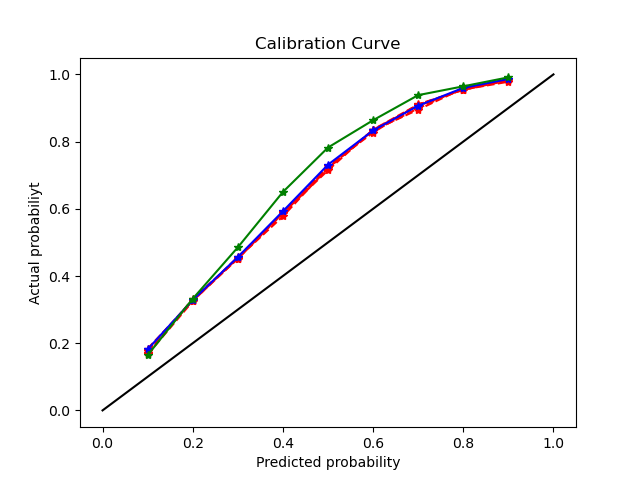
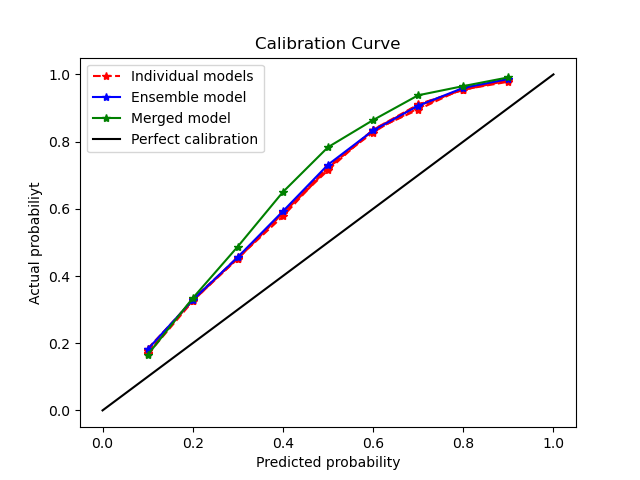
Merge many re-run for report

diff --git a/exp_merge_many.py b/exp_merge_many.py
@@ -71,11 +71,11 @@ if __name__ == "__main__":
     
     train_loader, test_loader, _ = cifar10_loader(batch_size=128)
     ensemble_model = Ensemble(*models)
-    for model in models:
+    for ix, model in enumerate(models):
         x, y = create_calibration_curve(model=model, dataloader=train_loader)
-        plt.plot(x, y, color='r',linestyle="--",marker="*", label="Model")
+        plt.plot(x, y, color='r',linestyle="--",marker="*", label="Individual models" if ix==0 else "")
     x, y = create_calibration_curve(model=ensemble_model, dataloader=train_loader)
-    plt.plot(x, y, color='b', marker="*", label="Ensemble")
+    plt.plot(x, y, color='b', marker="*", label="Ensemble model")
     def _generate_models(model1: torch.nn.Module, model2: torch.nn.Module) -> tuple:
         """
         Internal function to ensure temporary tensors gets erased
@@ -138,14 +138,36 @@ if __name__ == "__main__":
     x, y = create_calibration_curve(model=merged_model_final, dataloader=train_loader)
     
     plt.plot(x, y, color='g',marker="*", label="Merged model")          
-    plt.plot([0, 1], [0, 1], color='black', label="Perfect")
+    plt.plot([0, 1], [0, 1], color='black', label="Perfect calibration")
     plt.xlabel('Predicted probability')
     plt.ylabel('Actual probabiliyt')
     plt.title('Calibration Curve')
+    plt.legend()
     plt.savefig("calibration_plot")
     
-    # for i in range(5):
-    #     for j in range(i+1,5):
-    #         print(f"model {i+1}** & model {j+1}**",_generate_models(__mix_models[i], __mix_models[j]))
+    merged_model_corr = 0.0
+    individual_model_corr = [0.0 for _ in range(models.__len__())]
+    ensemble_model_corr = 0.0
+    with torch.no_grad():
+        for i, data in enumerate(test_loader):
+            inputs, labels = data
+            
+            # Merged model
+            _, preds = torch.max(merged_model_final(inputs.to(DEVICE)), dim=1)
+            merged_model_corr += torch.sum(preds == labels.to(DEVICE)).item()
+            
+            # Individual models
+            for ix, m in enumerate(models):
+                _, preds = torch.max(m(inputs.to(DEVICE)), dim=1)
+                individual_model_corr[ix] += torch.sum(preds == labels.to(DEVICE)).item() 
+            
+            # Merged model
+            _, preds = torch.max(ensemble_model(inputs.to(DEVICE)), dim=1)
+            ensemble_model_corr += torch.sum(preds == labels.to(DEVICE)).item()              
+        
+        print("Merged model accuracy: ", merged_model_corr / len(test_loader.dataset))  #type: ignore
+        print("Individual model accuracies: ", [tmp / len(test_loader.dataset) for tmp in individual_model_corr])  #type: ignore
+        print("Ensemble model accuracy: ", ensemble_model_corr / len(test_loader.dataset))  #type: ignore
+            
     
     print("Done!")
